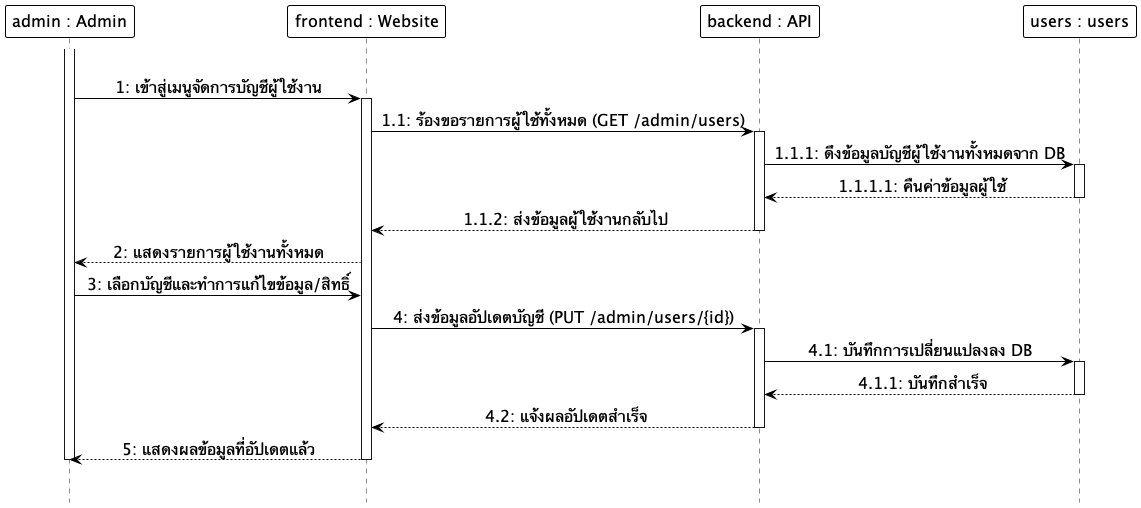
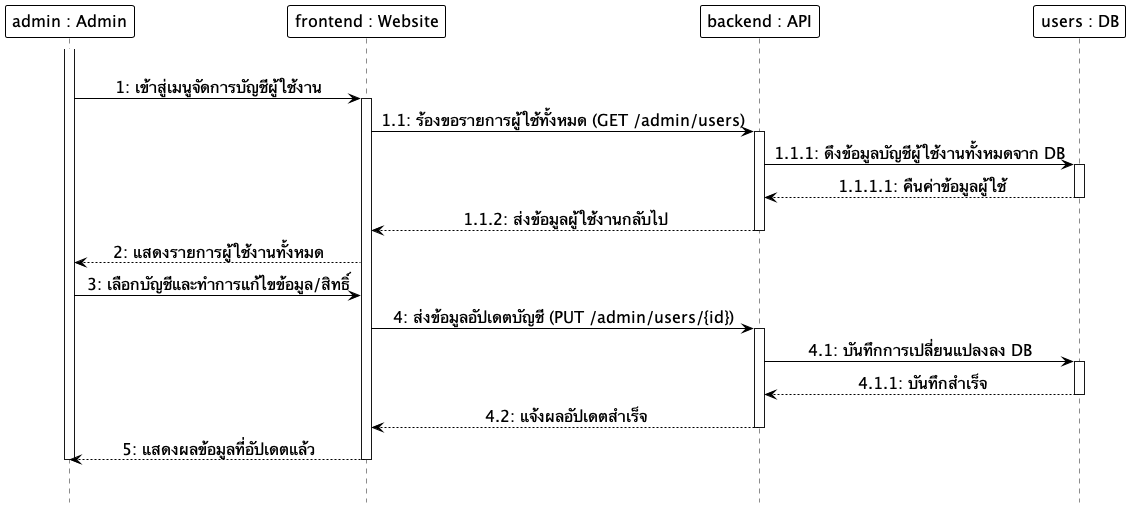
docs: Refactor diagram participant names to use Table : DB notation for academic clarity

diff --git a/docs/diagrams/plantuml_source/plantuml_sequence_diagrams.md b/docs/diagrams/plantuml_source/plantuml_sequence_diagrams.md
@@ -114,7 +114,7 @@ skinparam sequenceMessageAlign center
 participant "user : User" as User
 participant "frontend : Website" as Frontend
 participant "backend : API" as Backend
-participant "users : users" as DB
+participant "users : DB" as DB
 
 |||
 activate User
@@ -268,7 +268,7 @@ participant "user : User" as User
 participant "frontend : Website" as Frontend
 participant "backend : API" as Backend
 participant "engine : Model" as Model
-participant "portfolios : portfolios" as DB
+participant "portfolios : DB" as DB
 
 |||
 activate User
@@ -326,7 +326,7 @@ skinparam sequenceMessageAlign center
 participant "user : User" as User
 participant "frontend : Website" as Frontend
 participant "backend : API" as Backend
-participant "portfolios : portfolios" as DB
+participant "portfolios : DB" as DB
 
 |||
 activate User
@@ -380,7 +380,7 @@ participant "user : User" as User
 participant "frontend : Website" as Frontend
 participant "backend : API" as Backend
 participant "engine : Model" as Model
-participant "portfolios : portfolios" as DB
+participant "portfolios : DB" as DB
 
 |||
 activate User
@@ -432,7 +432,7 @@ skinparam sequenceMessageAlign center
 participant "user : User" as User
 participant "frontend : Website" as Frontend
 participant "backend : API" as Backend
-participant "portfolios : portfolios" as DB
+participant "portfolios : DB" as DB
 
 |||
 activate User
@@ -479,7 +479,7 @@ skinparam sequenceMessageAlign center
 participant "user : User" as User
 participant "frontend : Website" as Frontend
 participant "backend : API" as Backend
-participant "portfolios : portfolios" as DB
+participant "portfolios : DB" as DB
 
 |||
 activate User
@@ -566,7 +566,7 @@ participant "actor : User" as User
 participant "frontend : Website" as Frontend
 participant "auth : Clerk" as Clerk
 participant "backend : API" as Backend
-participant "users : users" as DB
+participant "users : DB" as DB
 
 |||
 activate User
@@ -699,7 +699,7 @@ skinparam sequenceMessageAlign center
 participant "admin : Admin" as Admin
 participant "frontend : Website" as Frontend
 participant "backend : API" as Backend
-participant "users : users" as DB
+participant "users : DB" as DB
 
 |||
 activate Admin
@@ -755,7 +755,7 @@ skinparam sequenceMessageAlign center
 participant "admin : Admin" as Admin
 participant "frontend : Website" as Frontend
 participant "backend : API" as Backend
-participant "portfolios : portfolios" as DB
+participant "portfolios : DB" as DB
 
 |||
 activate Admin
@@ -802,7 +802,7 @@ skinparam sequenceMessageAlign center
 participant "admin : Admin" as Admin
 participant "frontend : Website" as Frontend
 participant "backend : API" as Backend
-participant "assets : assets" as DB
+participant "assets : DB" as DB
 
 |||
 activate Admin
